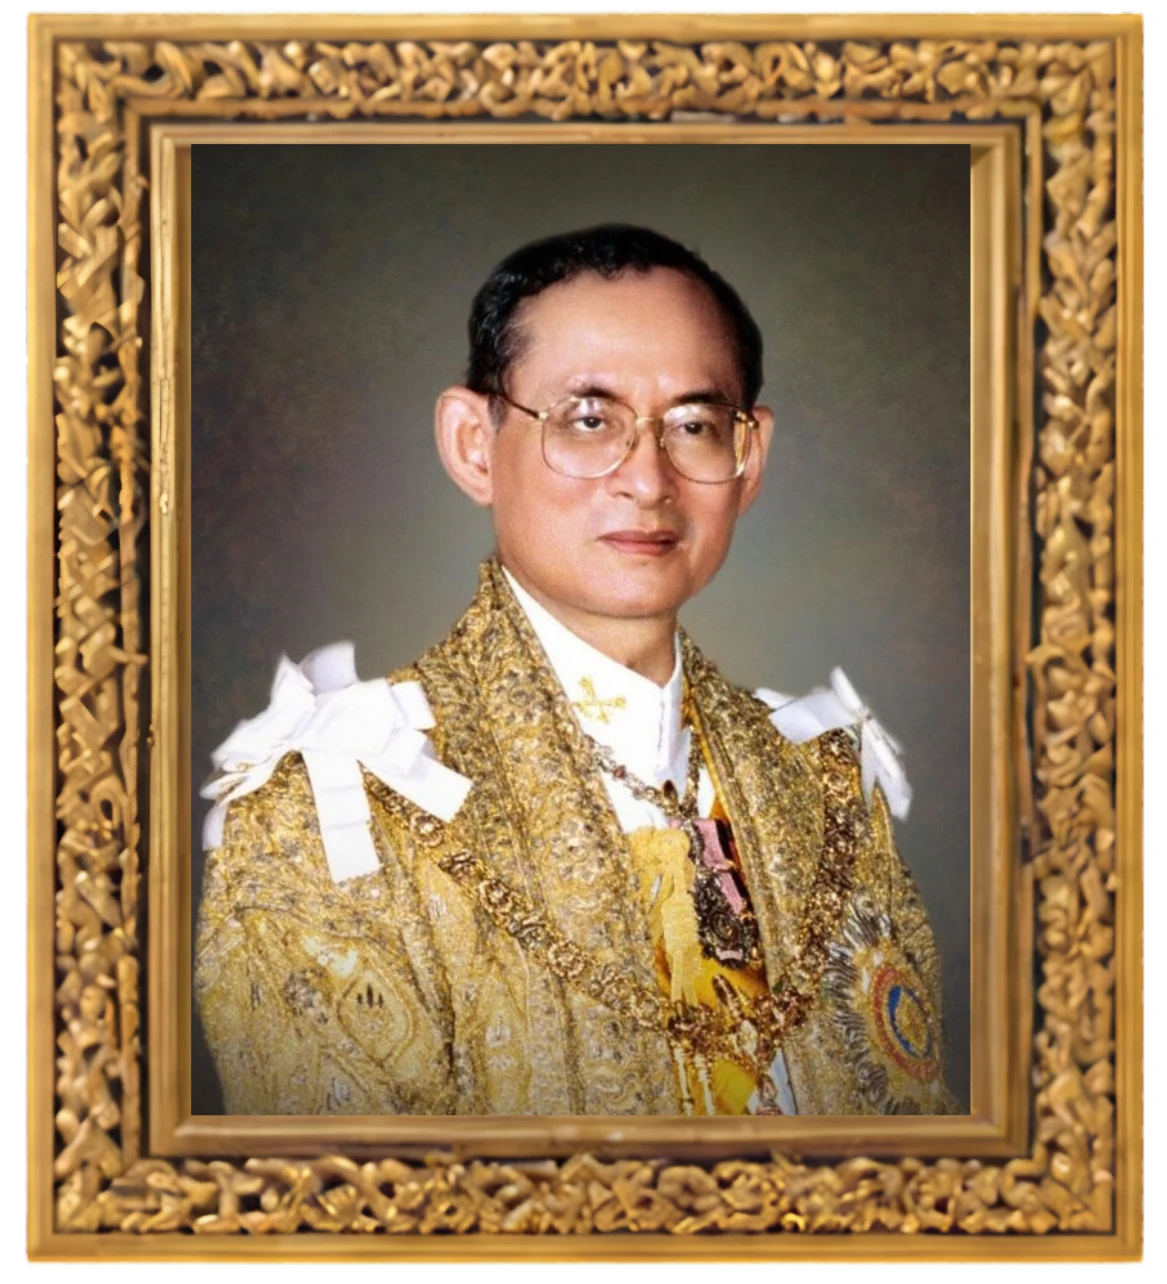
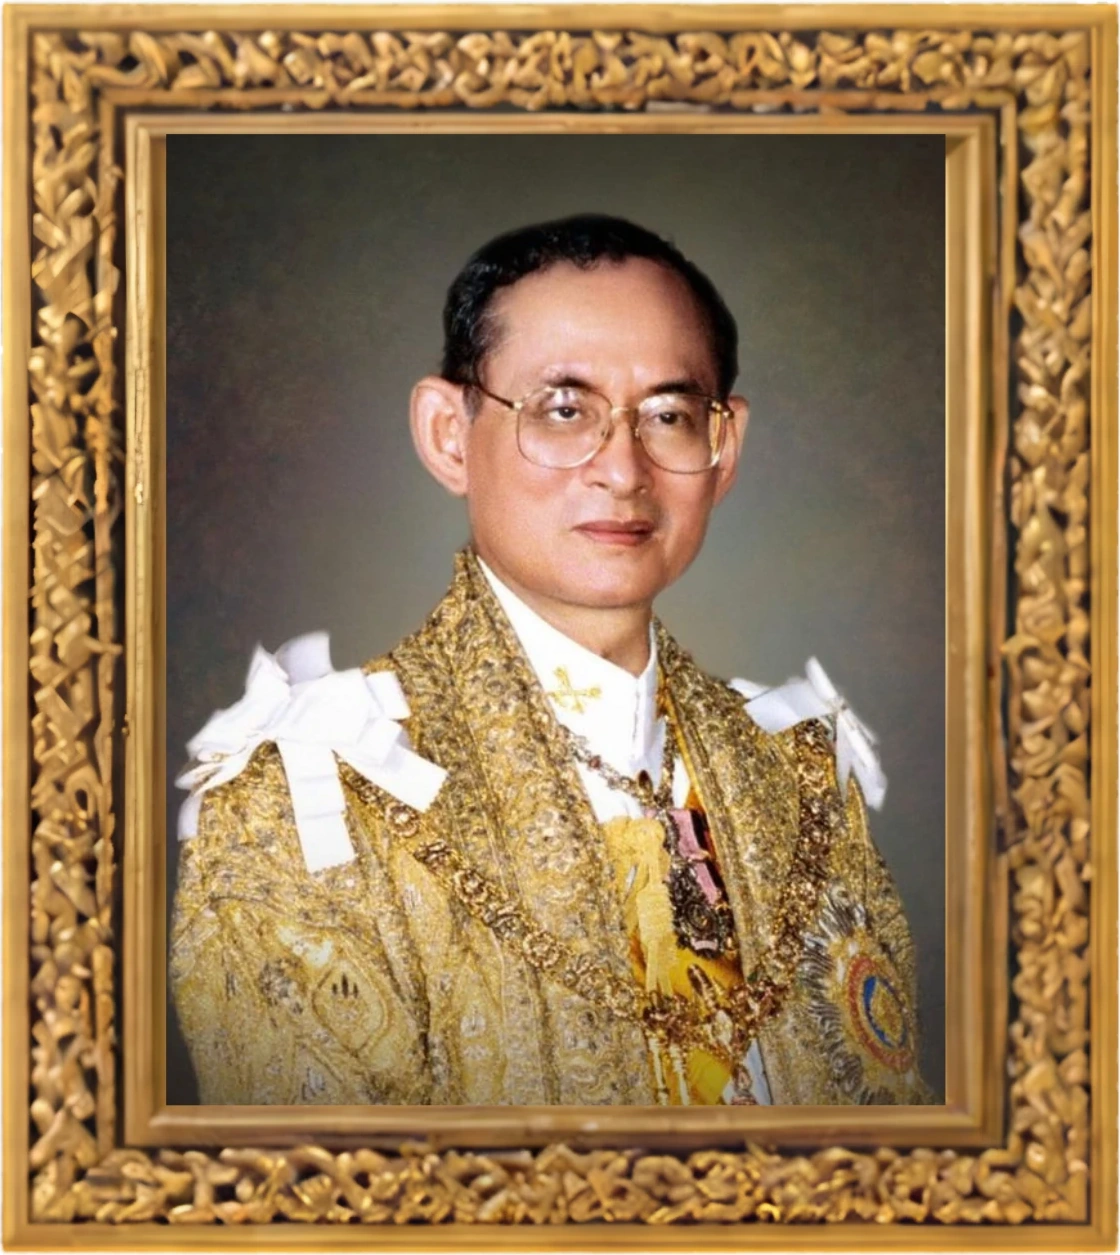
fix(intro): reorder and trim royal portraits

diff --git a/src/app/intro/page.tsx b/src/app/intro/page.tsx
@@ -8,16 +8,16 @@ export const metadata = {
 
 const portraits = [
   {
-    src: "/intro/king.webp",
-    alt: "พระบรมฉายาลักษณ์พระบาทสมเด็จพระบรมชนกาธิเบศร ในกรอบลายไทยสีทอง",
-    dedication: "น้อมสำนึกในพระมหากรุณาธิคุณเป็นล้นพ้นอันหาที่สุดมิได้",
-    nameLines: ["พระบาทสมเด็จพระบรมชนกาธิเบศร", "มหาภูมิพลอดุลยเดชมหาราช บรมนาถบพิตร"],
-  },
-  {
     src: "/intro/queen.webp",
     alt: "พระฉายาลักษณ์สมเด็จพระนางเจ้าสิริกิติ์ พระบรมราชินีนาถ ในกรอบลายไทยสีทอง",
     dedication: "น้อมสำนึกในพระมหากรุณาธิคุณเป็นล้นพ้นอันหาที่สุดมิได้",
     nameLines: ["สมเด็จพระนางเจ้าสิริกิติ์ พระบรมราชินีนาถ", "พระบรมราชชนนีพันปีหลวง"],
+  },
+  {
+    src: "/intro/king.webp",
+    alt: "พระบรมฉายาลักษณ์พระบาทสมเด็จพระบรมชนกาธิเบศร ในกรอบลายไทยสีทอง",
+    dedication: "น้อมสำนึกในพระมหากรุณาธิคุณเป็นล้นพ้นอันหาที่สุดมิได้",
+    nameLines: ["พระบาทสมเด็จพระบรมชนกาธิเบศร", "มหาภูมิพลอดุลยเดชมหาราช บรมนาถบพิตร"],
   },
   {
     src: "/intro/princess.webp",
@@ -49,12 +49,12 @@ export default function IntroPage() {
                 alt={portrait.alt}
                 className={styles.portrait}
                 fetchPriority={index === 0 ? "high" : "auto"}
-                height={428}
+                height={1255}
                 loading={index === 0 ? "eager" : "lazy"}
                 sizes="(max-width: 820px) 70vw, 260px"
                 src={portrait.src}
                 unoptimized
-                width={389}
+                width={1120}
               />
               <figcaption className={styles.caption}>
                 <p className={styles.dedication}>{portrait.dedication}</p>
